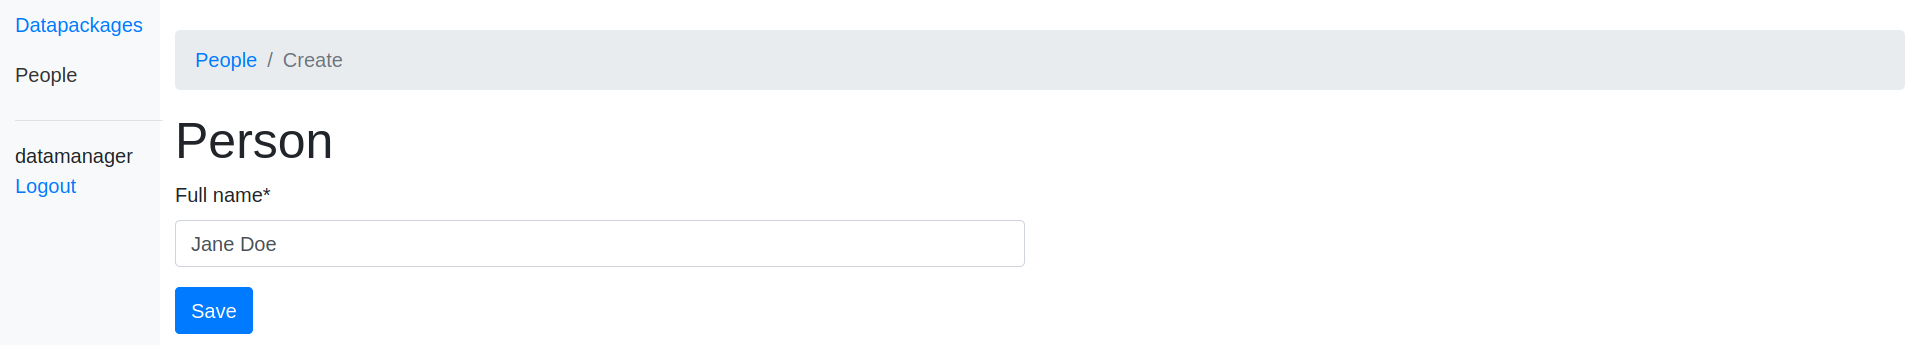
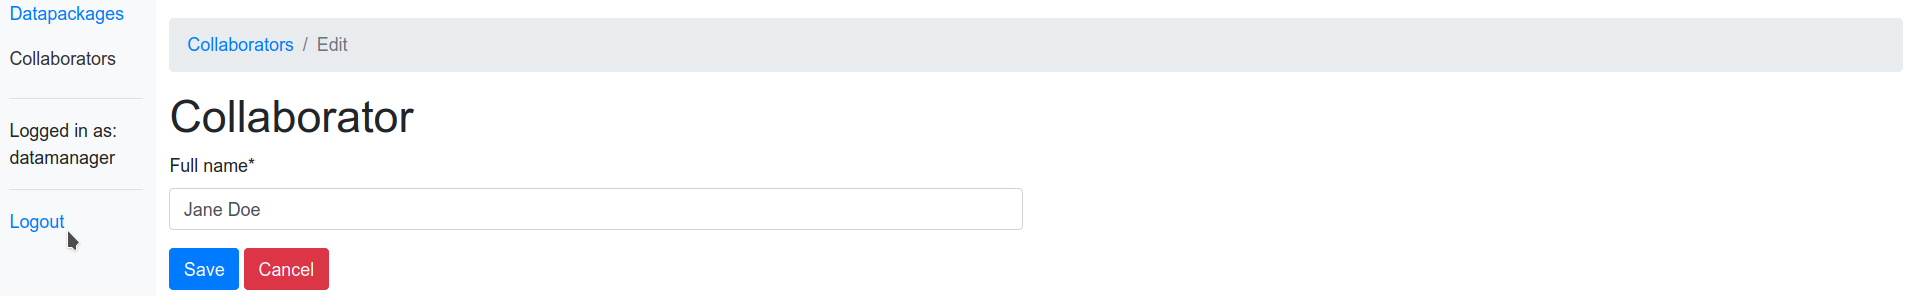
Changed from "datamanger" to "data manager" for UI strings

diff --git a/SchemaCollaboration/core/templatetags/includefile.py b/SchemaCollaboration/core/templatetags/includefile.py
@@ -20,7 +20,7 @@ def include_homepage():
         
         <h2>What can you do?</h2>
         <ul>
-            <li>The datamanager can create people, datapackages and assign people to datapackages using the <a
+            <li>The data manager can create people, datapackages and assign people to datapackages using the <a
                     href="{reverse('login')}">management area</a> (login required available on the next page).
             </li>
         </ul>

diff --git a/SchemaCollaboration/comments/forms.py b/SchemaCollaboration/comments/forms.py
@@ -18,7 +18,7 @@ class CommentForm(ModelForm):
 
         self.fields['text'].widget.attrs = {'rows': 3}
 
-        self.fields['private'].help_text = 'Enable if this comment should only be visible to datamanagers'
+        self.fields['private'].help_text = 'Enable if this comment should only be visible to data managers'
 
         if person:
             self.fields['author'].initial = person

diff --git a/SchemaCollaboration/core/management/commands/create_datamanagement_and_admin_user.py b/SchemaCollaboration/core/management/commands/create_datamanagement_and_admin_user.py
@@ -30,7 +30,7 @@ class Command(BaseCommand):
 
         try:
             create_datamanager(datamanager_username, datamanager_full_name, datamanager_password)
-            print('Created: datamanager user')
+            print('Created: data manager user')
         except IntegrityError:
             print('Could not create the data manager')
 

diff --git a/docker/README.md b/docker/README.md
@@ -304,13 +304,13 @@ Specify the database password.
 If initializing the database it creates an admin user with the given password.
 
 ### `DATAMANAGER_USERNAME`
-If initializing the database it creates a datamanager username with the given username.
+If initializing the database it creates a data manager username with the given username.
 
 ### `DATAMANAGER_PASSWORD`
-If initializing the database it creates a datamanger password with the given password.
+If initializing the database it creates a data manager password with the given password.
 
 ### `DATAMANAGER_FULL_NAME`
-If initializing the database it creates a datamanager person with the given full name.
+If initializing the database it creates a data manager person with the given full name.
 
 ### `PORT`
 Port where gunicorn will handle the requests. Defaults to 80. This might be needed if deploying in Heroku (where it sets it) otherwise changing the left part of the docker `--publish 8000:80` it should not be needed.
